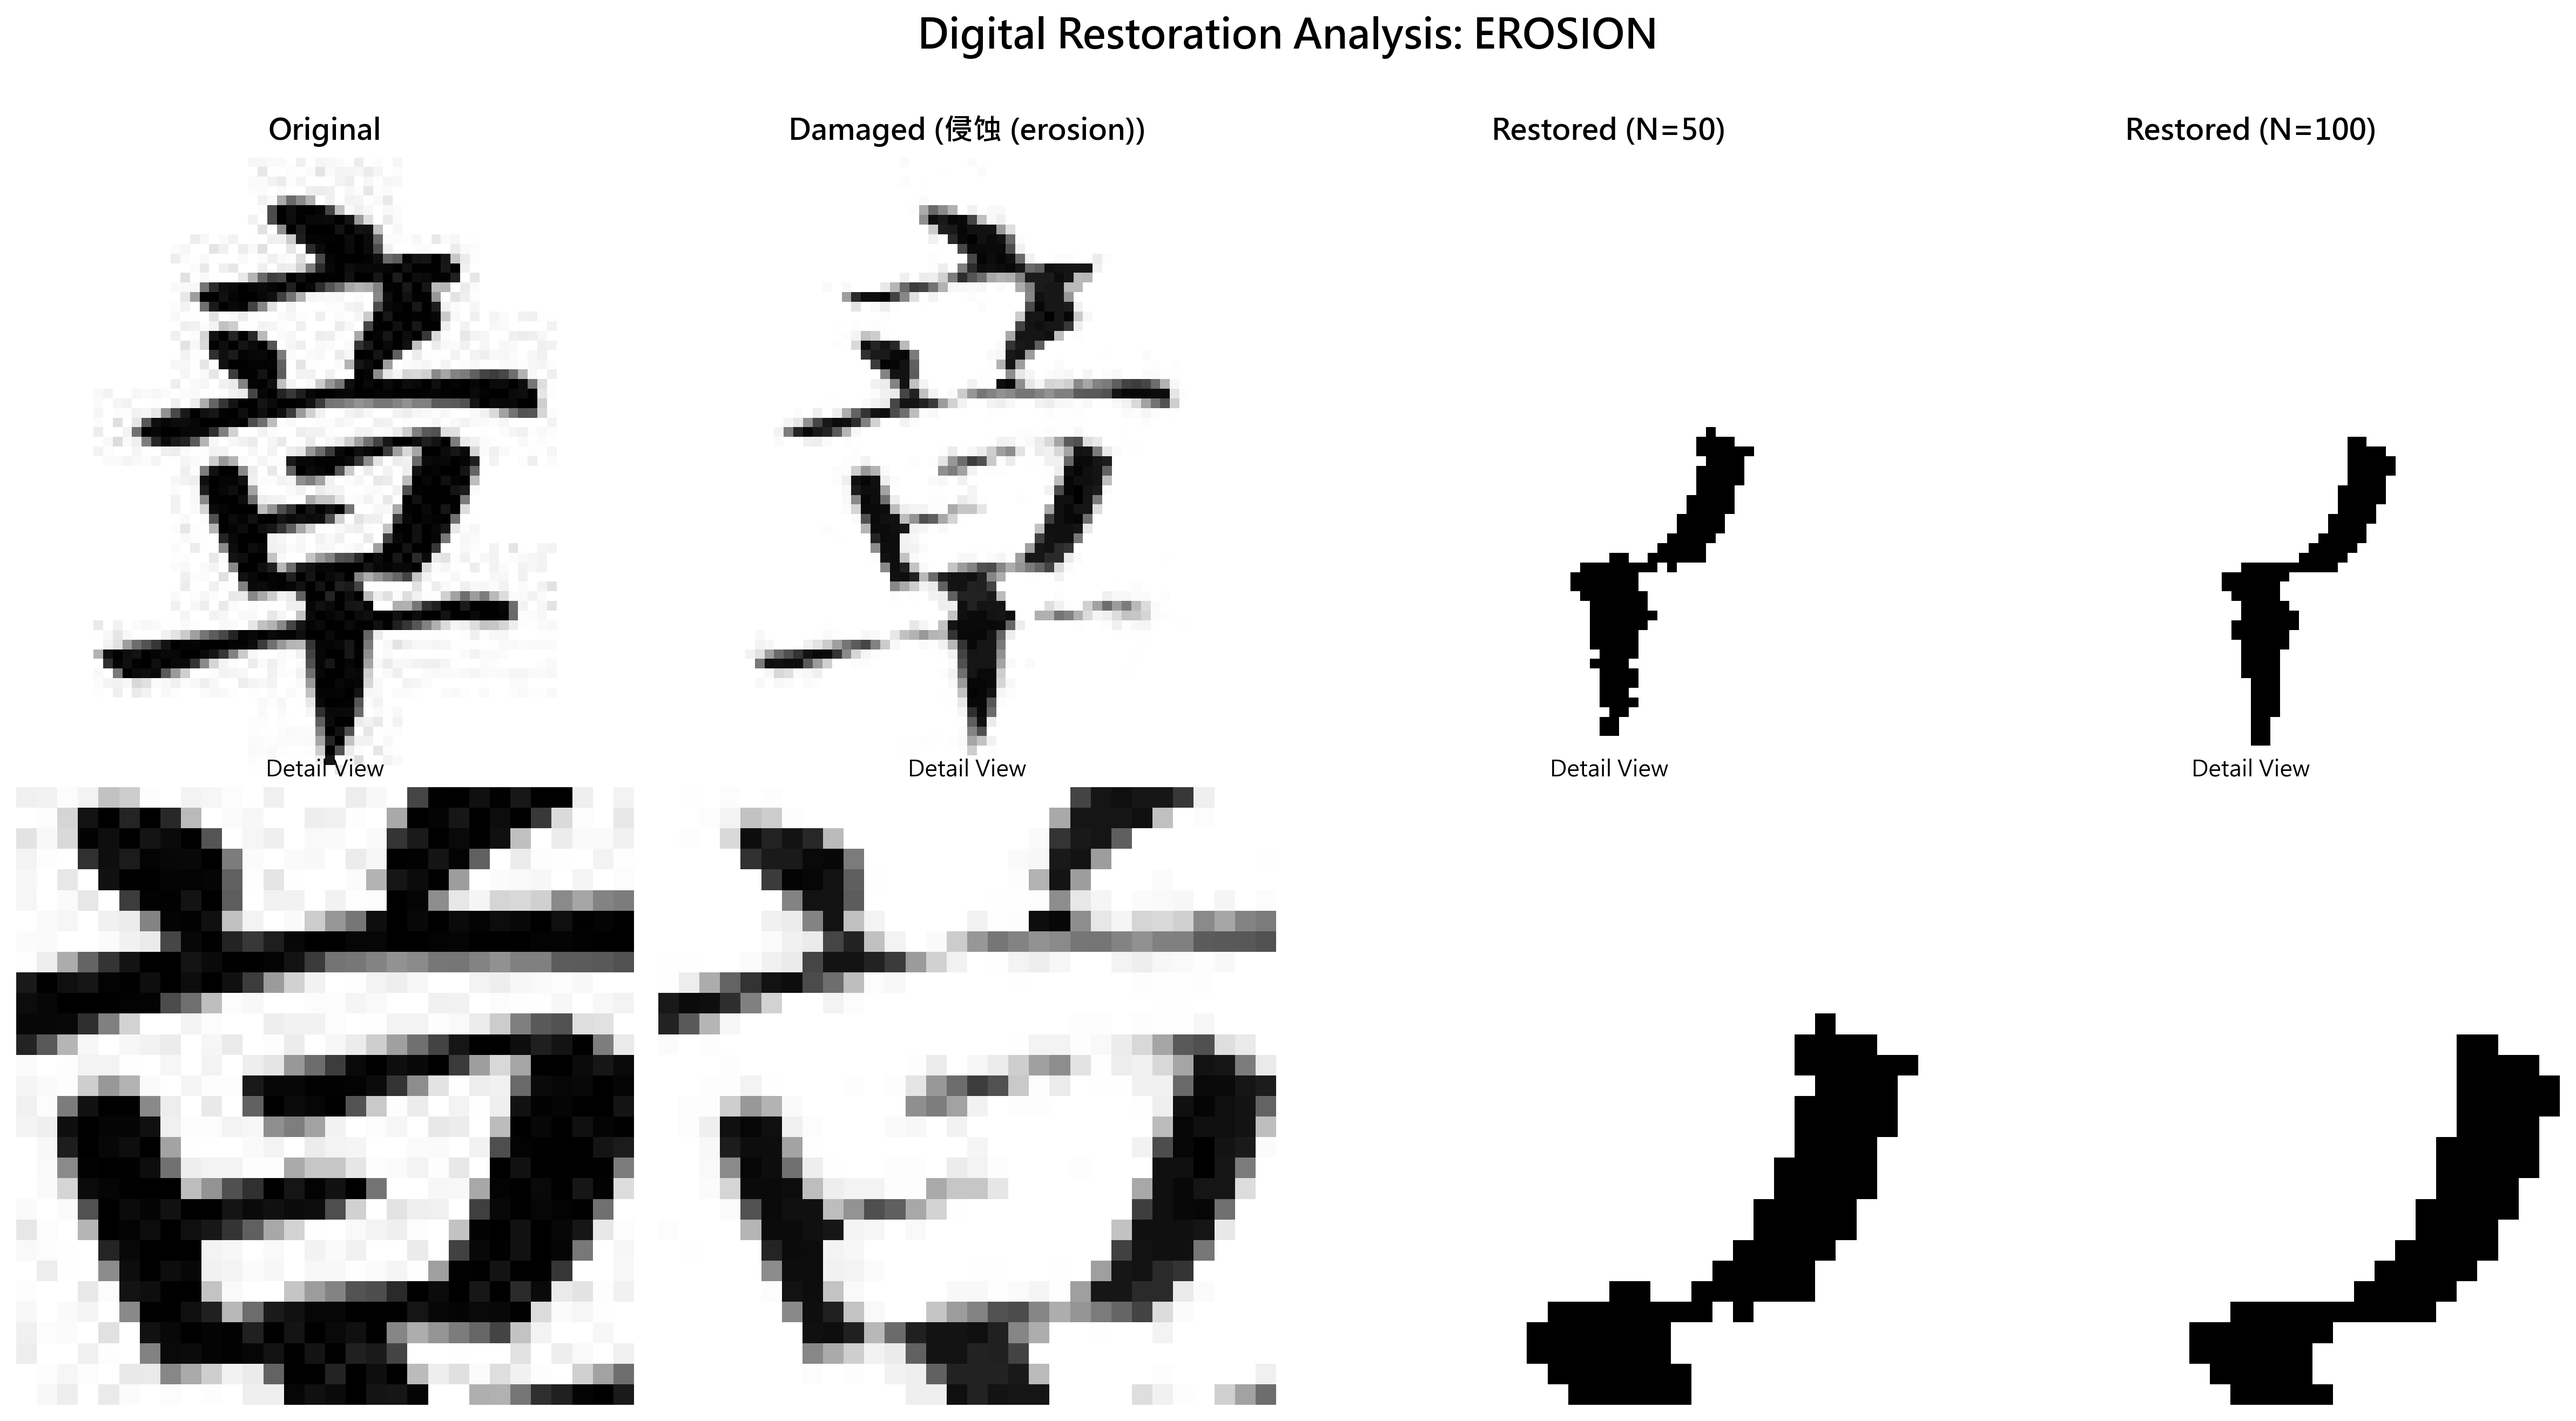
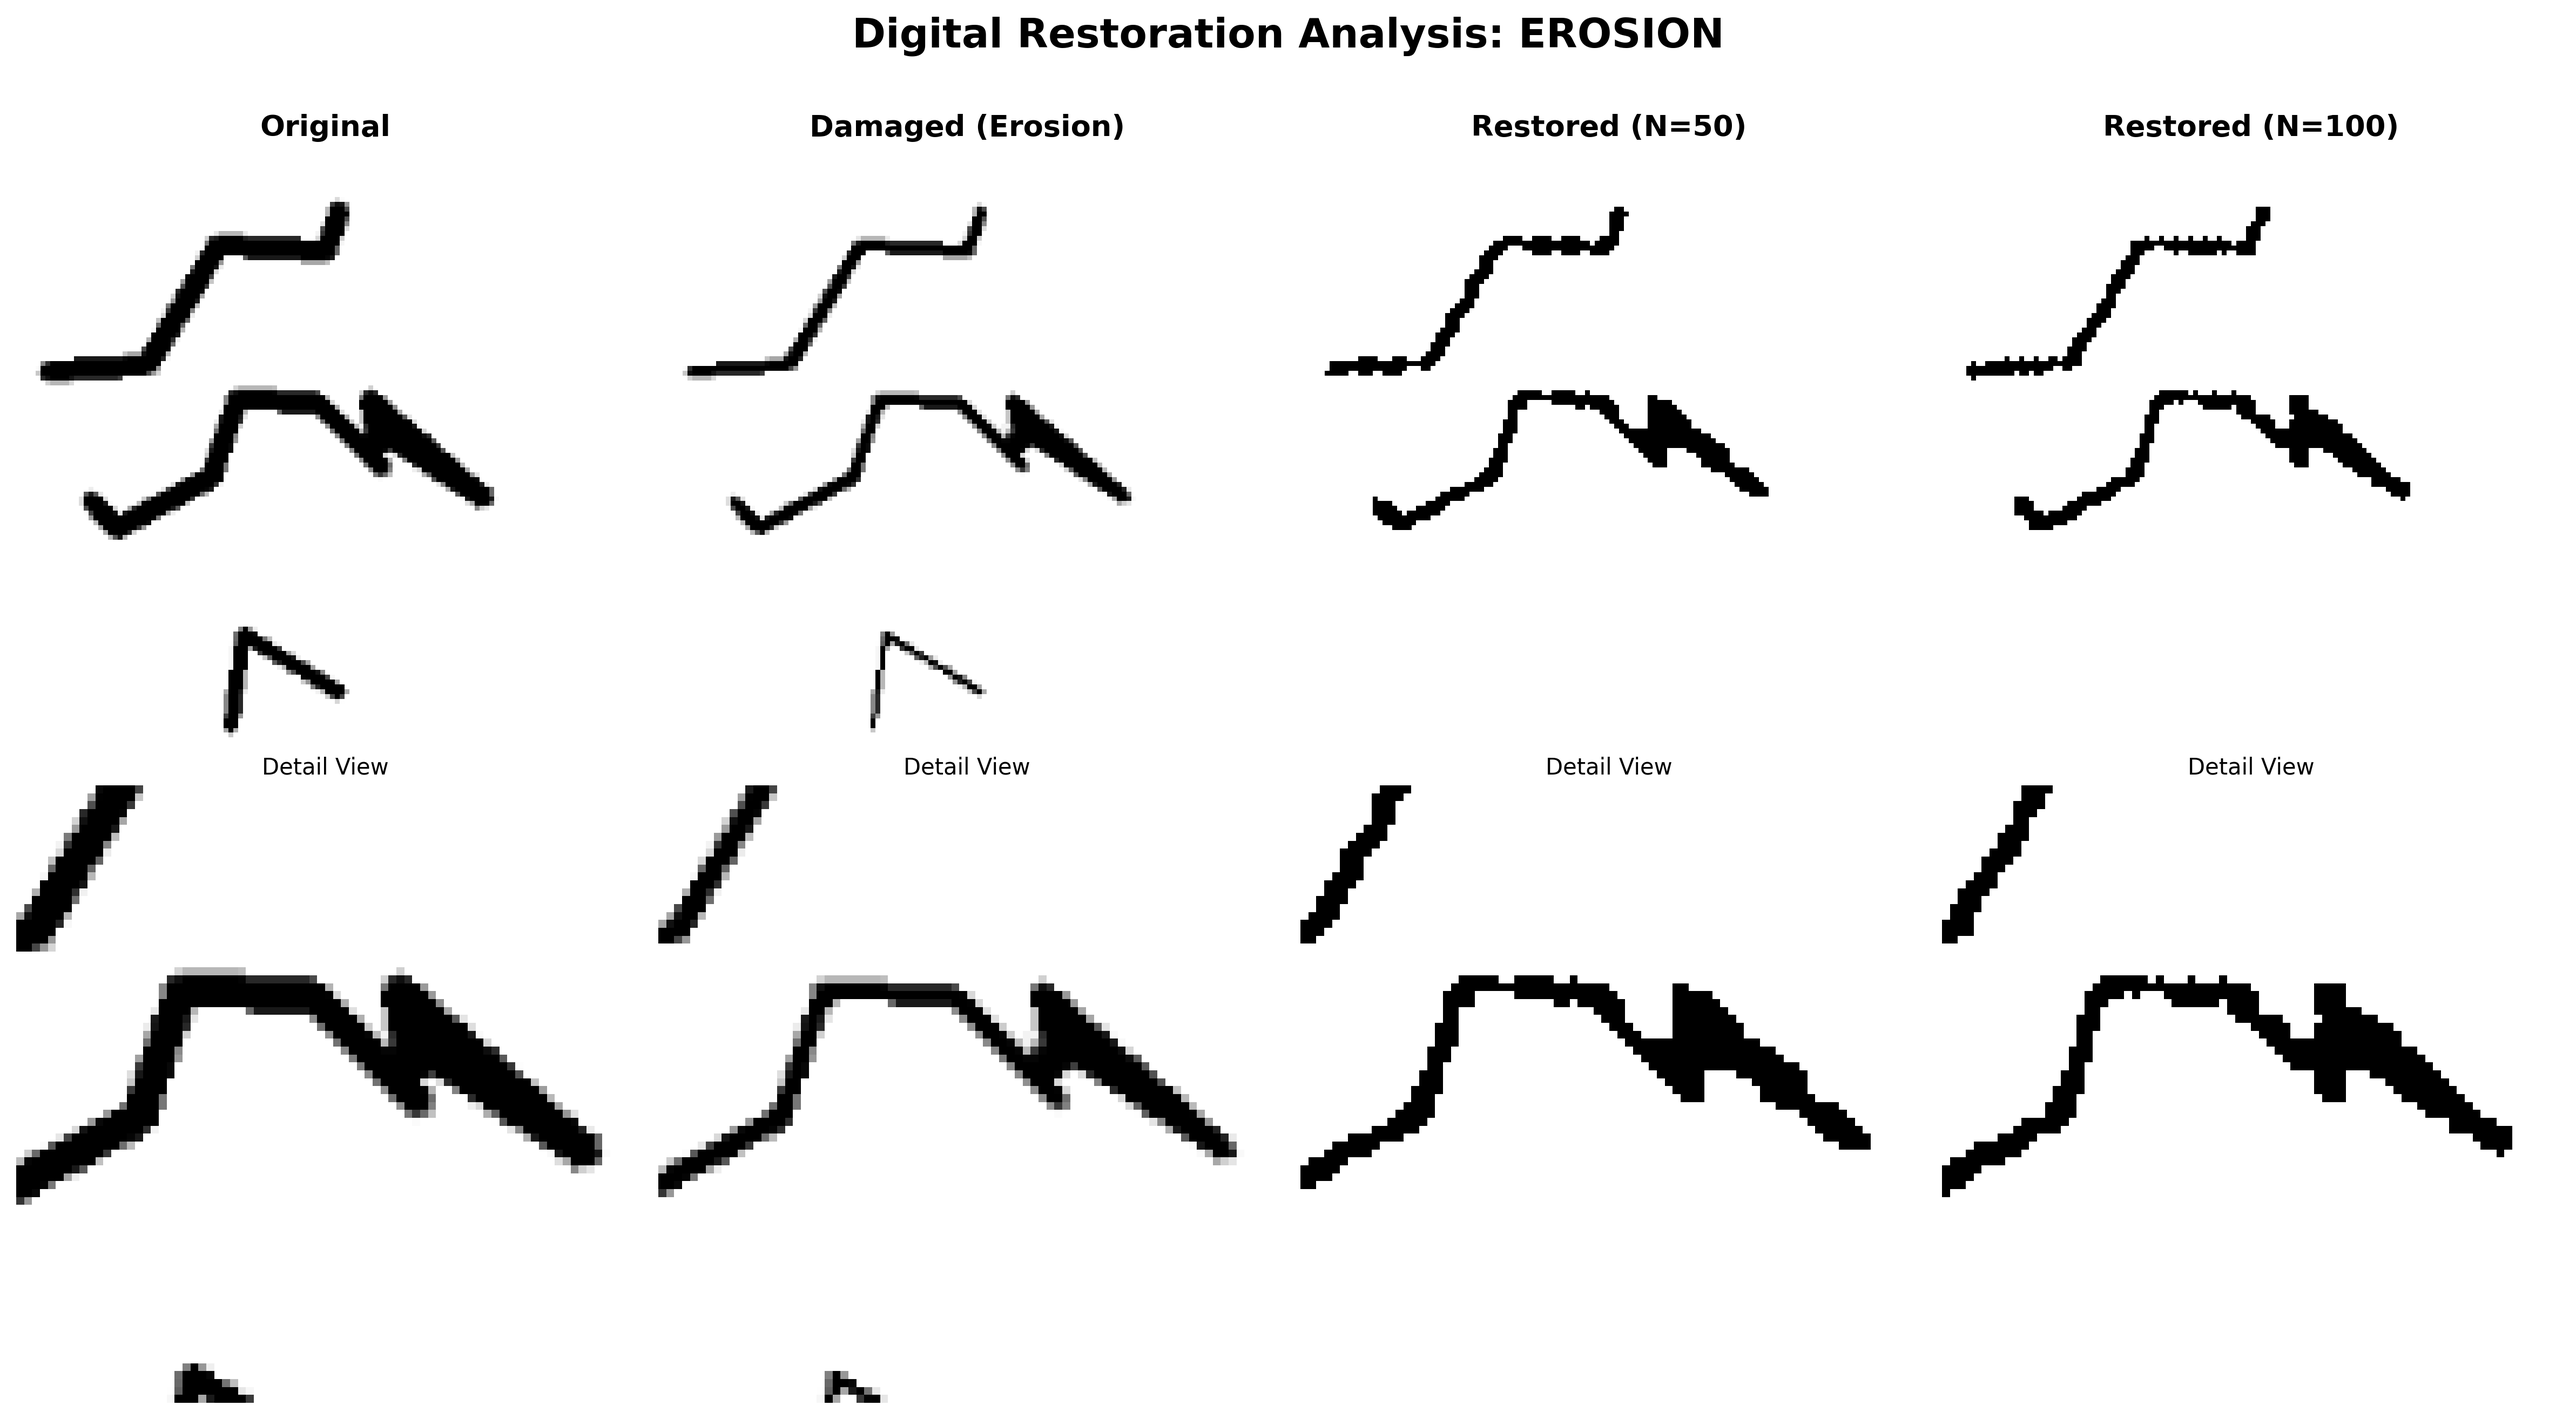
修復三個核心問題：FFT重複定義、頻譜正規化、修復演示
1. fft.py: 移除重複的 get_reconstructed_points 定義和無法到達的 return，
   清理重複 import
2. main.py: 將振幅正規化從 amplitudes/amplitudes[0] 改為 L2-norm，
   解決 Yan_Zhenqing Y 軸飆升到 5.0 的問題
3. restoration_demo.py: 重寫 restore_with_magic 使用 RETR_LIST 處理
   所有輪廓而非僅最大輪廓，解析度從 64x64 提高到 128x128，
   移除重複的座標轉換程式碼
4. 刪除不應被追蹤的暫存檔案 (temp_restore*.png/svg)

diff --git a/modules/restoration_demo.py b/modules/restoration_demo.py
@@ -8,11 +8,8 @@ from SVG import bitmap_to_contour_svg
 import fft
 
 # 解決字體顯示問題
-try:
-    plt.rcParams['font.sans-serif'] = ['Microsoft JhengHei', 'Arial', 'sans-serif']
-    plt.rcParams['axes.unicode_minus'] = False
-except:
-    pass
+plt.rcParams['font.sans-serif'] = ['DejaVu Sans', 'Arial', 'sans-serif']
+plt.rcParams['axes.unicode_minus'] = False
 
 def add_damage(image, damage_type="noise", intensity=0.3, severity="medium"):
     """施加人工損壞壓力測試
@@ -92,134 +89,122 @@ def add_damage(image, damage_type="noise", intensity=0.3, severity="medium"):
     return damaged
 
 def restore_with_magic(img_data, n_coeffs=40):
-    """【核心修正】正確對接 FFT 回傳值並實現實心修復"""
-    h, w = 64, 64
+    """使用 FFT 低通濾波重建書法字：處理所有輪廓而非僅最大輪廓"""
+    h, w = img_data.shape[:2]
     res_img = np.ones((h, w), dtype=np.uint8) * 255
     try:
-        # 1. 適度降噪（避免過度處理導致特徵丟失）
-        processed = cv2.medianBlur(img_data, 3)  # 降低濾波強度從5改為3
-        
-        # 使用自適應閾值處理，對噪聲和遮擋更魯棒
+        # 1. 降噪
+        processed = cv2.medianBlur(img_data, 3)
+
+        # 自適應閾值，對噪聲和遮擋更魯棒
         binary = cv2.adaptiveThreshold(
             processed, 255, cv2.ADAPTIVE_THRESH_GAUSSIAN_C,
             cv2.THRESH_BINARY_INV, 11, 2
         )
-        
-        # 輕微的形態學閉運算連接斷裂筆畫
+
+        # 形態學閉運算連接斷裂筆畫
         kernel = cv2.getStructuringElement(cv2.MORPH_ELLIPSE, (3, 3))
         binary = cv2.morphologyEx(binary, cv2.MORPH_CLOSE, kernel, iterations=1)
 
-        # 2. 提取最大輪廓，避免修復到背景雜訊
-        contours, _ = cv2.findContours(binary, cv2.RETR_EXTERNAL, cv2.CHAIN_APPROX_SIMPLE)
+        # 2. 提取所有有效輪廓（過濾雜訊用面積閾值）
+        contours, _ = cv2.findContours(binary, cv2.RETR_LIST, cv2.CHAIN_APPROX_NONE)
         if not contours:
-            print(f"⚠ 未找到輪廓，返回原圖 (n_coeffs={n_coeffs})")
+            print(f"  ⚠ 未找到輪廓 (n_coeffs={n_coeffs})")
             return img_data
-        
-        main_contour = max(contours, key=cv2.contourArea)
-        contour_area = cv2.contourArea(main_contour)
-        print(f"🔍 找到輪廓，面積={contour_area:.0f} (n_coeffs={n_coeffs})")
-        
+
+        # 過濾太小的雜訊輪廓（面積 < 圖片總面積的 0.5%）
+        min_area = h * w * 0.005
+        valid_contours = [c for c in contours if cv2.contourArea(c) >= min_area]
+        if not valid_contours:
+            # 如果全被過濾掉，至少保留最大的
+            valid_contours = [max(contours, key=cv2.contourArea)]
+
+        total_pts = sum(len(c) for c in valid_contours)
+        print(f"  找到 {len(valid_contours)} 個有效輪廓，共 {total_pts} 點 (n_coeffs={n_coeffs})")
+
+        # 3. 把所有有效輪廓畫到遮罩上，再透過 SVG→FFT→重建
         temp_mask = np.ones((h, w), dtype=np.uint8) * 255
-        cv2.drawContours(temp_mask, [main_contour], -1, 0, -1)
-        
-        # 3. 轉向量並執行 FFT
-        cv2.imwrite("temp_restore_final.png", temp_mask)
-        bitmap_to_contour_svg("temp_restore_final.png", "temp_restore_final.svg")
-        
-        # ✨ 關鍵修正：使用 get_reconstructed_points 獲取重建座標
-        recon_strokes, bbox = fft.get_reconstructed_points("temp_restore_final.svg", n_coeffs=n_coeffs)
-        
-        if recon_strokes and len(recon_strokes) > 0:
-            # 取第一個筆劃（主要輪廓）
-            recon_points = recon_strokes[0] if len(recon_strokes) > 0 else []
-            
-            if len(recon_points) > 2:  # 至少需要3個點才能形成多邊形
-                print(f"✓ FFT重建 {len(recon_points)} 個點 (n_coeffs={n_coeffs})")
-                
-                # 轉換為 OpenCV 格式
-                pts = np.array(recon_points, dtype=np.float32)
-                
-                # 如果SVG座標系統和圖像不同，需要調整（通常SVG原點在左上）
-                # 座標已經在正確的範圍內，直接使用
-                pts = pts.reshape((-1, 1, 2)).astype(np.int32)
-            
-# 轉換為 OpenCV 格式
-                pts = np.array(recon_points, dtype=np.float32)
-                
-                # 如果SVG座標系統和圖像不同，需要調整（通常SVG原點在左上）
-                # 座標已經在正確的範圍內，直接使用
-                pts = pts.reshape((-1, 1, 2)).astype(np.int32)
-                
-                # 確保座標在合理範圍內
-                x_coords = pts[:, 0, 0]
-                y_coords = pts[:, 0, 1]
-                
-                # 裁剪到有效範圍
-                pts[:, 0, 0] = np.clip(x_coords, 0, w-1)
-                pts[:, 0, 1] = np.clip(y_coords, 0, h-1)
-                
-                # 填充重建的輪廓
-                cv2.fillPoly(res_img, [pts], 0)  # 0 代表黑色實心填充
-                return res_img
-            else:
-                print(f"⚠ FFT重建點數不足 ({len(recon_points)} 點)，返回原圖")
-                return img_data
-            
-        return img_data
+        cv2.drawContours(temp_mask, valid_contours, -1, 0, -1)
+
+        temp_png = "./temp_restore_work.png"
+        temp_svg = "./temp_restore_work.svg"
+        cv2.imwrite(temp_png, temp_mask)
+        bitmap_to_contour_svg(temp_png, temp_svg)
+
+        # 4. FFT 重建所有筆畫
+        recon_strokes, bbox = fft.get_reconstructed_points(temp_svg, n_coeffs=n_coeffs)
+
+        if not recon_strokes:
+            print(f"  ⚠ FFT 重建失敗")
+            return img_data
+
+        # 5. 將所有重建的筆畫畫回圖片
+        total_recon = 0
+        for stroke_pts in recon_strokes:
+            if len(stroke_pts) < 3:
+                continue
+            pts = np.array(stroke_pts, dtype=np.float32)
+            pts[:, 0] = np.clip(pts[:, 0], 0, w - 1)
+            pts[:, 1] = np.clip(pts[:, 1], 0, h - 1)
+            pts = pts.reshape((-1, 1, 2)).astype(np.int32)
+            cv2.fillPoly(res_img, [pts], 0)
+            total_recon += 1
+
+        print(f"  ✓ FFT 重建 {total_recon} 個筆畫 (n_coeffs={n_coeffs})")
+        return res_img
+
     except Exception as e:
-        print(f"修復中斷: {e}")
+        print(f"  修復中斷: {e}")
         return img_data
 
 def create_comparison_report(img_path, damage_type="noise", intensity=0.3, severity="medium"):
-    """產出 2x4 對照報告圖表
-    
-    Args:
-        img_path: 原始圖像路徑
-        damage_type: 破壞類型
-        intensity: 破壞強度
-        severity: 破壞等級 (light/medium/heavy)
-    """
+    """產出 2x4 對照報告圖表"""
+    IMG_SIZE = 128  # 提高解析度（原本 64 太小）
+
     original = cv2.imread(img_path, 0)
     if original is None: return
-    original = cv2.resize(original, (64, 64))
+    original = cv2.resize(original, (IMG_SIZE, IMG_SIZE))
     damaged = add_damage(original, damage_type, intensity, severity)
-    
-    # 測試係數級距 [50, 100]
+
+    # 測試兩種係數級距
     res_low = restore_with_magic(damaged, n_coeffs=50)
     res_high = restore_with_magic(damaged, n_coeffs=100)
-    
+
     fig, axes = plt.subplots(2, 4, figsize=(16, 9))
     imgs = [original, damaged, res_low, res_high]
-    
-    # 改进的标题，包含破坏类型和等级信息
+
     damage_names = {
-        "noise": "噪声 (noise)",
-        "erosion": "侵蚀 (erosion)", 
-        "occlusion": "遮挡 (occlusion)"
+        "noise": "Noise",
+        "erosion": "Erosion",
+        "occlusion": "Occlusion"
     }
     damage_display = damage_names.get(damage_type, damage_type)
-    
+
     titles = [
-        "Original", 
-        f"Damaged ({damage_display})", 
-        "Restored (N=50)", 
+        "Original",
+        f"Damaged ({damage_display})",
+        "Restored (N=50)",
         "Restored (N=100)"
     ]
-    
+
+    # 上排：完整圖片
     for i in range(4):
-        axes[0, i].imshow(imgs[i], cmap='gray')
+        axes[0, i].imshow(imgs[i], cmap='gray', vmin=0, vmax=255)
         axes[0, i].set_title(titles[i], fontsize=13, fontweight='bold', pad=8)
         axes[0, i].axis('off')
-        
+
+    # 下排：中央局部放大（取中間 60% 區域）
+    margin = IMG_SIZE // 5
     for i in range(4):
-        zoom = imgs[i][17:47, 17:47] # 局部放大
-        axes[1, i].imshow(zoom, cmap='gray')
+        zoom = imgs[i][margin:IMG_SIZE-margin, margin:IMG_SIZE-margin]
+        axes[1, i].imshow(zoom, cmap='gray', vmin=0, vmax=255)
         axes[1, i].set_title("Detail View", fontsize=10, pad=5)
         axes[1, i].axis('off')
 
-    plt.suptitle(f"Digital Restoration Analysis: {damage_type.upper()}", 
+    plt.suptitle(f"Digital Restoration Analysis: {damage_type.upper()}",
                  fontsize=18, fontweight='bold', y=0.98)
     plt.tight_layout(rect=[0, 0, 1, 0.96])
-    plt.savefig(f"./output/restoration_{damage_type}_magic.png", dpi=300, bbox_inches='tight')
+    out_path = f"./output/restoration_{damage_type}_magic.png"
+    plt.savefig(out_path, dpi=300, bbox_inches='tight')
     plt.close()
-    print(f"✅ 報告已生成: ./output/restoration_{damage_type}_magic.png")
+    print(f"  ✅ 報告已生成: {out_path}")

diff --git a/fft.py b/fft.py
@@ -1,12 +1,11 @@
 import numpy as np
 from numpy.fft import fft, ifft
 import re
-import pygame, math
+import math
+import pygame
 from pygame.locals import *
 import colorsys
 import datetime
-import re, math, pygame
-from pygame.locals import *
 
 def fftProcess(svg_filename: str, n_coeffs: int = 50):
     """解析 SVG 並執行傅立葉轉換，回傳所有筆劃的係數與全域中心"""
@@ -55,20 +54,6 @@ def fftProcess(svg_filename: str, n_coeffs: int = 50):
 
     return all_segments_fourier, (center_x, center_y)
 
-def get_reconstructed_points(svg_filename: str, n_coeffs: int = 50):
-    """供 GUI 調用：計算重建後的座標點清單"""
-    fourier_data, _ = fftProcess(svg_filename, n_coeffs)
-    all_strokes = []
-    for coeffs in fourier_data:
-        N_samples = 300 # 採樣點數
-        pts = []
-        for t_idx in range(N_samples):
-            t = t_idx / N_samples
-            val = sum(r * np.exp(1j * (freq * 2 * np.pi * t + phase)) for r, freq, phase in coeffs)
-            pts.append((val.real, val.imag))
-        all_strokes.append(pts)
-    return all_strokes
-    
 def get_reconstructed_points(svg_filename: str, n_coeffs: int = 50):
     """Parse SVG and for each long path do: FFT -> low-pass filter -> IFFT.
     Return (list_of_point_lists, (minx, maxx, miny, maxy)).
@@ -141,7 +126,6 @@ def get_reconstructed_points(svg_filename: str, n_coeffs: int = 50):
         all_reconstructed.append(rec_pts)
 
     return all_reconstructed, (gminx, gmaxx, gminy, gmaxy)
-    return all_strokes
 
 # === 2. 動態繪製傅立葉圓周合成圖形 ===
 def draw(filename: str, n_coeffs: int = 50, user_scale: float = 1.0):

diff --git a/main.py b/main.py
@@ -253,7 +253,10 @@ def run_style_analysis(data_root="./data", output_dir="./output", max_samples=No
                 # 提取振幅並正規化
                 if fourier_data and len(fourier_data[0]) >= TARGET_LEN:
                     amplitudes = np.array([max(1e-6, c[0]) for c in fourier_data[0][:TARGET_LEN]])
-                    amplitudes = amplitudes / amplitudes[0]  # 正規化至 [0, 1]
+                    # 使用 L2-norm 正規化，避免 DC 分量過小時其他頻率被放大
+                    norm = np.linalg.norm(amplitudes)
+                    if norm > 1e-8:
+                        amplitudes = amplitudes / norm
                     all_vecs.append(amplitudes)
                     success_count += 1
                     
